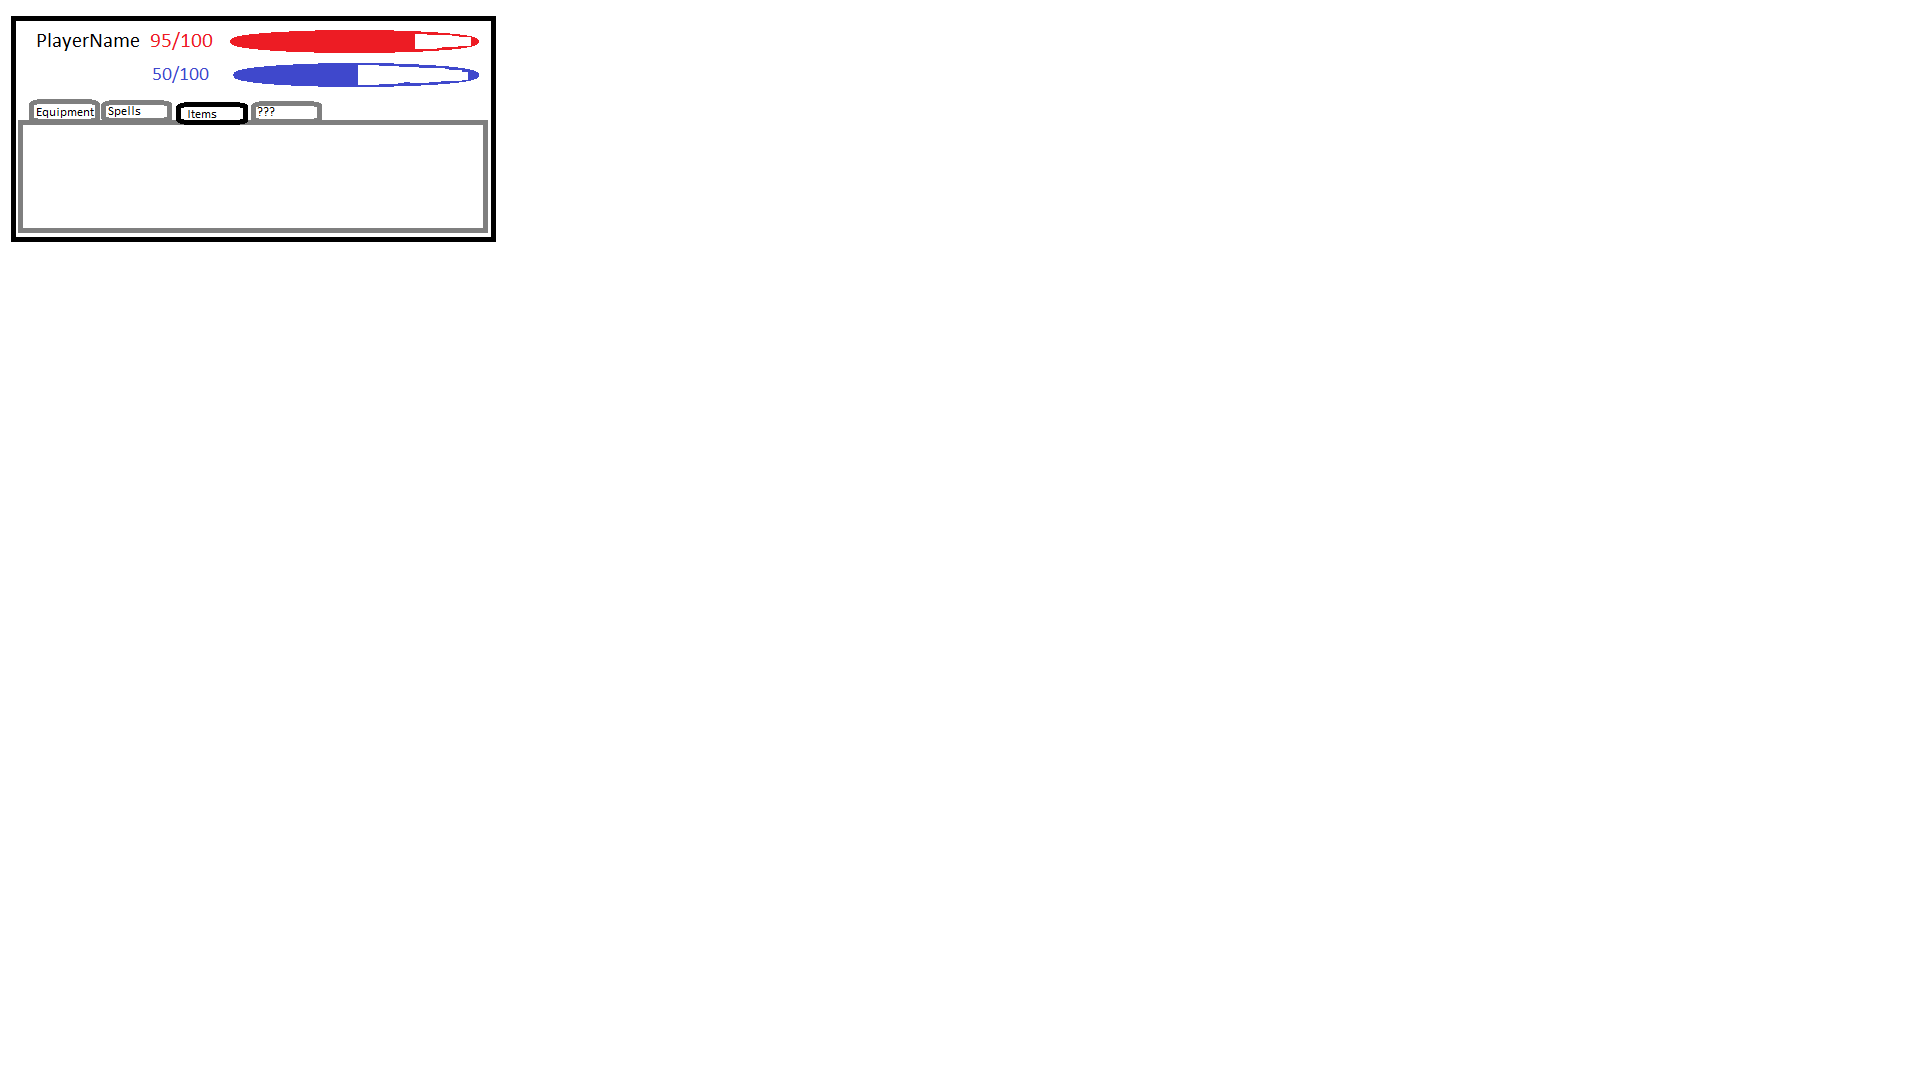
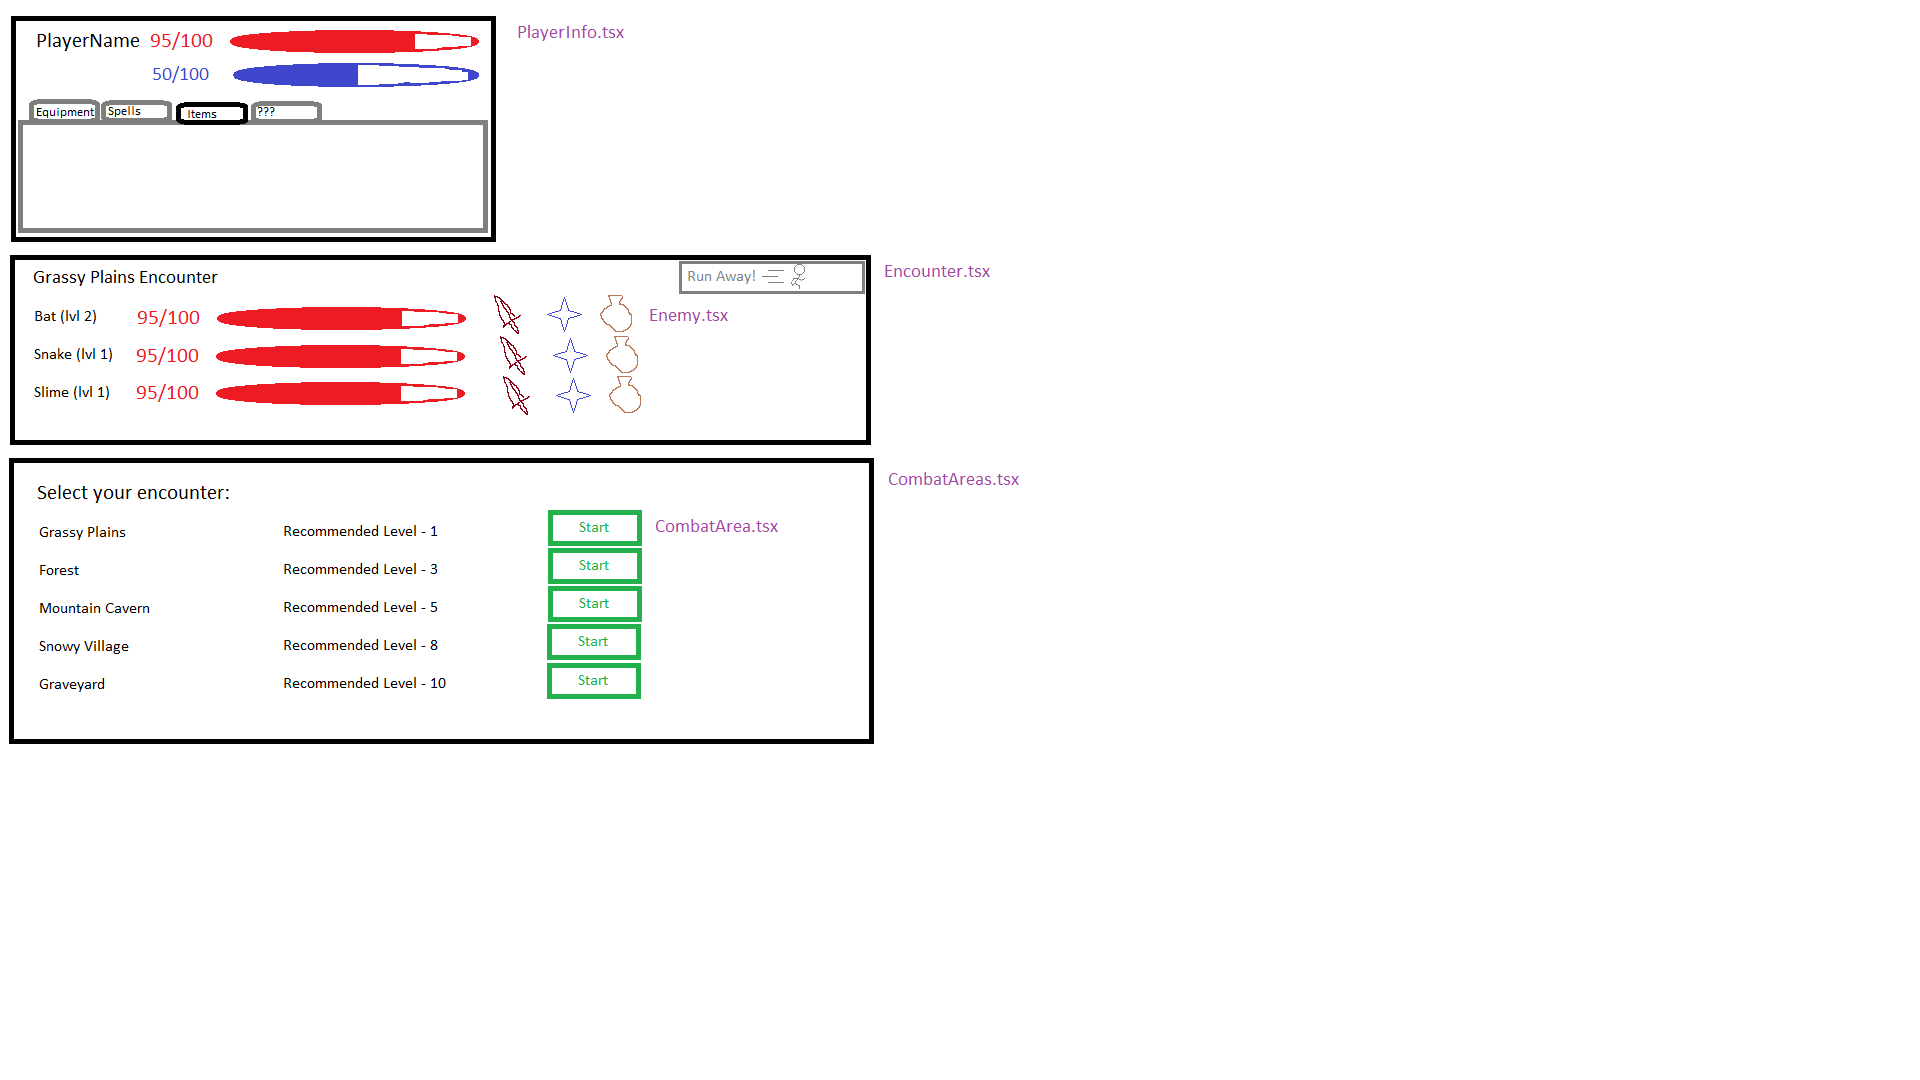
Laying groundwork for combat areas and encounters

Changed region(s): [[0.0, 0.2139, 0.5312, 0.6417], [0.0, 0.4583, 0.4688, 0.7028], [0.1562, 0.4889, 0.2188, 0.6417]]

diff --git a/src/pages/App.tsx b/src/pages/App.tsx
@@ -1,27 +1,59 @@
-import PlayerInfo, { Info } from "../components/PlayerInfo";
+import PlayerInfo from "../components/PlayerInfo";
 import "../styles/App.css";
-import mockPlayerInfo from "../mocks/PlayerInfo.json";
+import player from "../mocks/PlayerInfo.json";
+import { useEffect, useState } from "react";
+import Tick from "../util/Tick";
 
-import { useEffect } from "react";
-import tick from "../util/tick";
+import { Button } from "antd";
+import CombatAreas from "../components/CombatAreas";
 
 function App() {
-  // Tick function below is called every 1 second(s).
-  useEffect(() => {
-    const interval = setInterval(() => {
-      tick();
-    }, 1000);
+  const [name, setName] = useState(player.name);
+  const [level, setLevel] = useState(player.level);
+  const [experience, setExperience] = useState(player.currentExperience);
+  const [maxExperience, setMaxExperience] = useState(player.maxExperience);
+  const [currentHealth, setCurrentHealth] = useState(player.currentHealth);
+  const [maxHealth, setMaxHealth] = useState(player.maxHealth);
+  const [currentMana, setCurrentMana] = useState(player.currentMana);
+  const [maxMana, setMaxMana] = useState(player.maxMana);
 
-    return () => {
-      console.log("cleaning up setInterval");
-      clearInterval(interval);
-    };
-  }, []);
+  const [healthIncrement, setHealthIncrement] = useState(
+    player.healthIncrement
+  );
+  const [manaIncrement, setManaIncrement] = useState(player.manaIncrement);
 
-  const mockPlayer = mockPlayerInfo as Info;
   return (
     <div className={"m-5"}>
-      <PlayerInfo {...mockPlayer} />
+      <Tick
+        currentHealth={currentHealth}
+        maxHealth={maxHealth}
+        setCurrentHealth={setCurrentHealth}
+        healthIncrement={healthIncrement}
+        currentMana={currentMana}
+        maxMana={maxMana}
+        setCurrentMana={setCurrentMana}
+        manaIncrement={manaIncrement}
+      />
+      <PlayerInfo
+        name={name}
+        level={level}
+        currentExperience={experience}
+        maxExperience={maxExperience}
+        currentHealth={currentHealth}
+        maxHealth={maxHealth}
+        currentMana={currentMana}
+        maxMana={maxMana}
+        healthIncrement={healthIncrement}
+        manaIncrement={manaIncrement}
+      />
+      <CombatAreas />
+      {/* <Button
+        onClick={() => {
+          setCurrentHealth(currentHealth - 5);
+        }}
+      >
+        damage
+      </Button> */}
     </div>
   );
 }

diff --git a/src/components/PlayerInfo.tsx b/src/components/PlayerInfo.tsx
@@ -1,50 +1,25 @@
-import { useEffect, useState } from "react";
+// import { useEffect } from "react";
 import NameAndLevel from "./NameAndLevel";
 import Bars from "./Bars";
-import { Button } from "antd";
-
-export interface Info {
-  name: string;
-  level: number;
-  currentExperience: number;
-  maxExperience: number;
-  currentHealth: number;
-  maxHealth: number;
-  currentMana: number;
-  maxMana: number;
-}
+import Info from "../types/Info";
 
 const PlayerInfo = ({ ...player }: Info) => {
-  const [name, setName] = useState(player.name);
-  const [level, setLevel] = useState(player.level);
-  const [experience, setExperience] = useState(player.currentExperience);
-  const [maxExperience, setMaxExperience] = useState(player.maxExperience);
-  const [currentHealth, setCurrentHealth] = useState(player.currentHealth);
-  const [maxHealth, setMaxHealth] = useState(player.maxHealth);
-  const [currentMana, setCurrentMana] = useState(player.currentMana);
-  const [maxMana, setMaxMana] = useState(player.maxMana);
-
   return (
     <div className="flex items-center border-transparent border-2 rounded-md p-3 mb-5 bg-white/10">
       <NameAndLevel
-        name={name}
-        level={level}
-        experience={experience}
-        maxExperience={maxExperience}
+        name={player.name}
+        level={player.level}
+        experience={player.currentExperience}
+        maxExperience={player.maxExperience}
       />
       <Bars
-        currentHealth={currentHealth}
-        maxHealth={maxHealth}
-        currentMana={currentMana}
-        maxMana={maxMana}
+        currentHealth={player.currentHealth}
+        maxHealth={player.maxHealth}
+        healthIncrement={player.healthIncrement}
+        currentMana={player.currentMana}
+        maxMana={player.maxMana}
+        manaIncrement={player.manaIncrement}
       />
-      <Button
-        onClick={() => {
-          setCurrentHealth(currentHealth - 5);
-        }}
-      >
-        damage
-      </Button>
     </div>
   );
 };

diff --git a/src/util/Tick.tsx b/src/util/Tick.tsx
@@ -1,0 +1,49 @@
+import { Dispatch, SetStateAction, useEffect } from "react";
+
+interface TickProps {
+  currentHealth: number;
+  maxHealth: number;
+  setCurrentHealth: Dispatch<SetStateAction<number>>;
+  healthIncrement: number;
+  currentMana: number;
+  maxMana: number;
+  setCurrentMana: Dispatch<SetStateAction<number>>;
+  manaIncrement: number;
+}
+
+const Tick = ({ ...props }: TickProps) => {
+  const addHealth = () => {
+    props.setCurrentHealth(
+      props.currentHealth + props.healthIncrement >= props.maxHealth
+        ? props.maxHealth
+        : props.currentHealth + props.healthIncrement
+    );
+  };
+
+  const addMana = () => {
+    props.setCurrentMana(
+      props.currentMana + props.manaIncrement >= props.maxMana
+        ? props.maxMana
+        : props.currentMana + props.manaIncrement
+    );
+  };
+
+  useEffect(() => {
+    const interval = setInterval(() => {
+      // START 1000ms TICK
+      // Anything placed in these brackets will run once every 1000ms (1 second)
+      addHealth();
+      addMana();
+
+      // END 1000ms TICK
+    }, 1000);
+
+    return () => {
+      clearInterval(interval);
+    };
+  }, [props.currentHealth, props.currentMana]);
+  //   Component returns null because we do not need it to render anything, simply keep track of any functions that need to be run each tick (1 time each second(s))
+  return null;
+};
+
+export default Tick;

diff --git a/src/components/Bar.tsx b/src/components/Bar.tsx
@@ -1,13 +1,13 @@
 import { Progress } from "antd";
-import { useEffect, useState } from "react";
 
-interface BarValue {
+interface BarsProps {
   type: "health" | "mana";
   currentValue: number;
   maxValue: number;
+  increment: number;
 }
 
-const Bar = ({ type, currentValue, maxValue }: BarValue) => {
+const Bar = ({ type, currentValue, maxValue, increment }: BarsProps) => {
   return (
     <div
       className={
@@ -17,11 +17,12 @@ const Bar = ({ type, currentValue, maxValue }: BarValue) => {
     >
       <div className="min-w-max pr-3">{`${currentValue} / ${maxValue}`}</div>
       <Progress
-        percent={currentValue}
+        percent={(currentValue / maxValue) * 100}
         showInfo={false}
         trailColor="#6D5D6E"
         strokeColor={type === "health" ? "#F87171" : "#3B82F6"}
       />
+      <div className="min-w-max">{increment} / second</div>
     </div>
   );
 };

diff --git a/src/components/Bars.tsx b/src/components/Bars.tsx
@@ -4,20 +4,34 @@ import Bar from "./Bar";
 interface BarsProps {
   currentHealth: number;
   maxHealth: number;
+  healthIncrement: number;
   currentMana: number;
   maxMana: number;
+  manaIncrement: number;
 }
 
 const Bars = ({
   currentHealth,
   maxHealth,
+  healthIncrement,
   currentMana,
   maxMana,
+  manaIncrement,
 }: BarsProps) => {
   return (
     <div className="flex flex-col grow">
-      <Bar type="health" currentValue={currentHealth} maxValue={maxHealth} />
-      <Bar type="mana" currentValue={currentMana} maxValue={maxMana} />
+      <Bar
+        type="health"
+        currentValue={currentHealth}
+        maxValue={maxHealth}
+        increment={healthIncrement}
+      />
+      <Bar
+        type="mana"
+        currentValue={currentMana}
+        maxValue={maxMana}
+        increment={manaIncrement}
+      />
     </div>
   );
 };

diff --git a/src/types/Enemy.ts b/src/types/Enemy.ts
@@ -1,0 +1,14 @@
+export default interface Enemy {
+  name: string;
+  level: number;
+  strength: number;
+  dexterity: number;
+  intelligence: number;
+  wisdom: number;
+  constitution: number;
+  defense: number;
+  magicDefense: number;
+  experienceYield: number;
+  goldYield: number;
+  itemYield?: any;
+}

diff --git a/src/types/Info.ts b/src/types/Info.ts
@@ -1,0 +1,12 @@
+export default interface Info {
+  name: string;
+  level: number;
+  currentExperience: number;
+  maxExperience: number;
+  currentHealth: number;
+  maxHealth: number;
+  currentMana: number;
+  maxMana: number;
+  healthIncrement: number;
+  manaIncrement: number;
+}

diff --git a/src/components/CombatAreas.tsx b/src/components/CombatAreas.tsx
@@ -1,0 +1,11 @@
+import CombatArea from "./CombatArea";
+
+const CombatAreas = () => {
+  return (
+    <div className="flex border-transparent border-2 rounded-md p-3 mb-5 bg-white/10">
+      <CombatArea />
+    </div>
+  );
+};
+
+export default CombatAreas;

diff --git a/src/components/CombatArea.tsx b/src/components/CombatArea.tsx
@@ -1,0 +1,12 @@
+interface CombatAreaProps {
+  name: string;
+  levelRequirement: number;
+  minNumberOfEnemies: number;
+  maxNumberOfEnemies: number;
+}
+
+const CombatArea = () => {
+  return <></>;
+};
+
+export default CombatArea;

diff --git a/src/util/GenerateEncounter.ts b/src/util/GenerateEncounter.ts
@@ -1,0 +1,7 @@
+const generateEncounter = (
+  numberOfEnemies: number,
+  elligibleEnemies: string[]
+) => {
+  console.log("numOfEnemies ", numberOfEnemies);
+  console.log("elligibleEnemies ", elligibleEnemies);
+};
